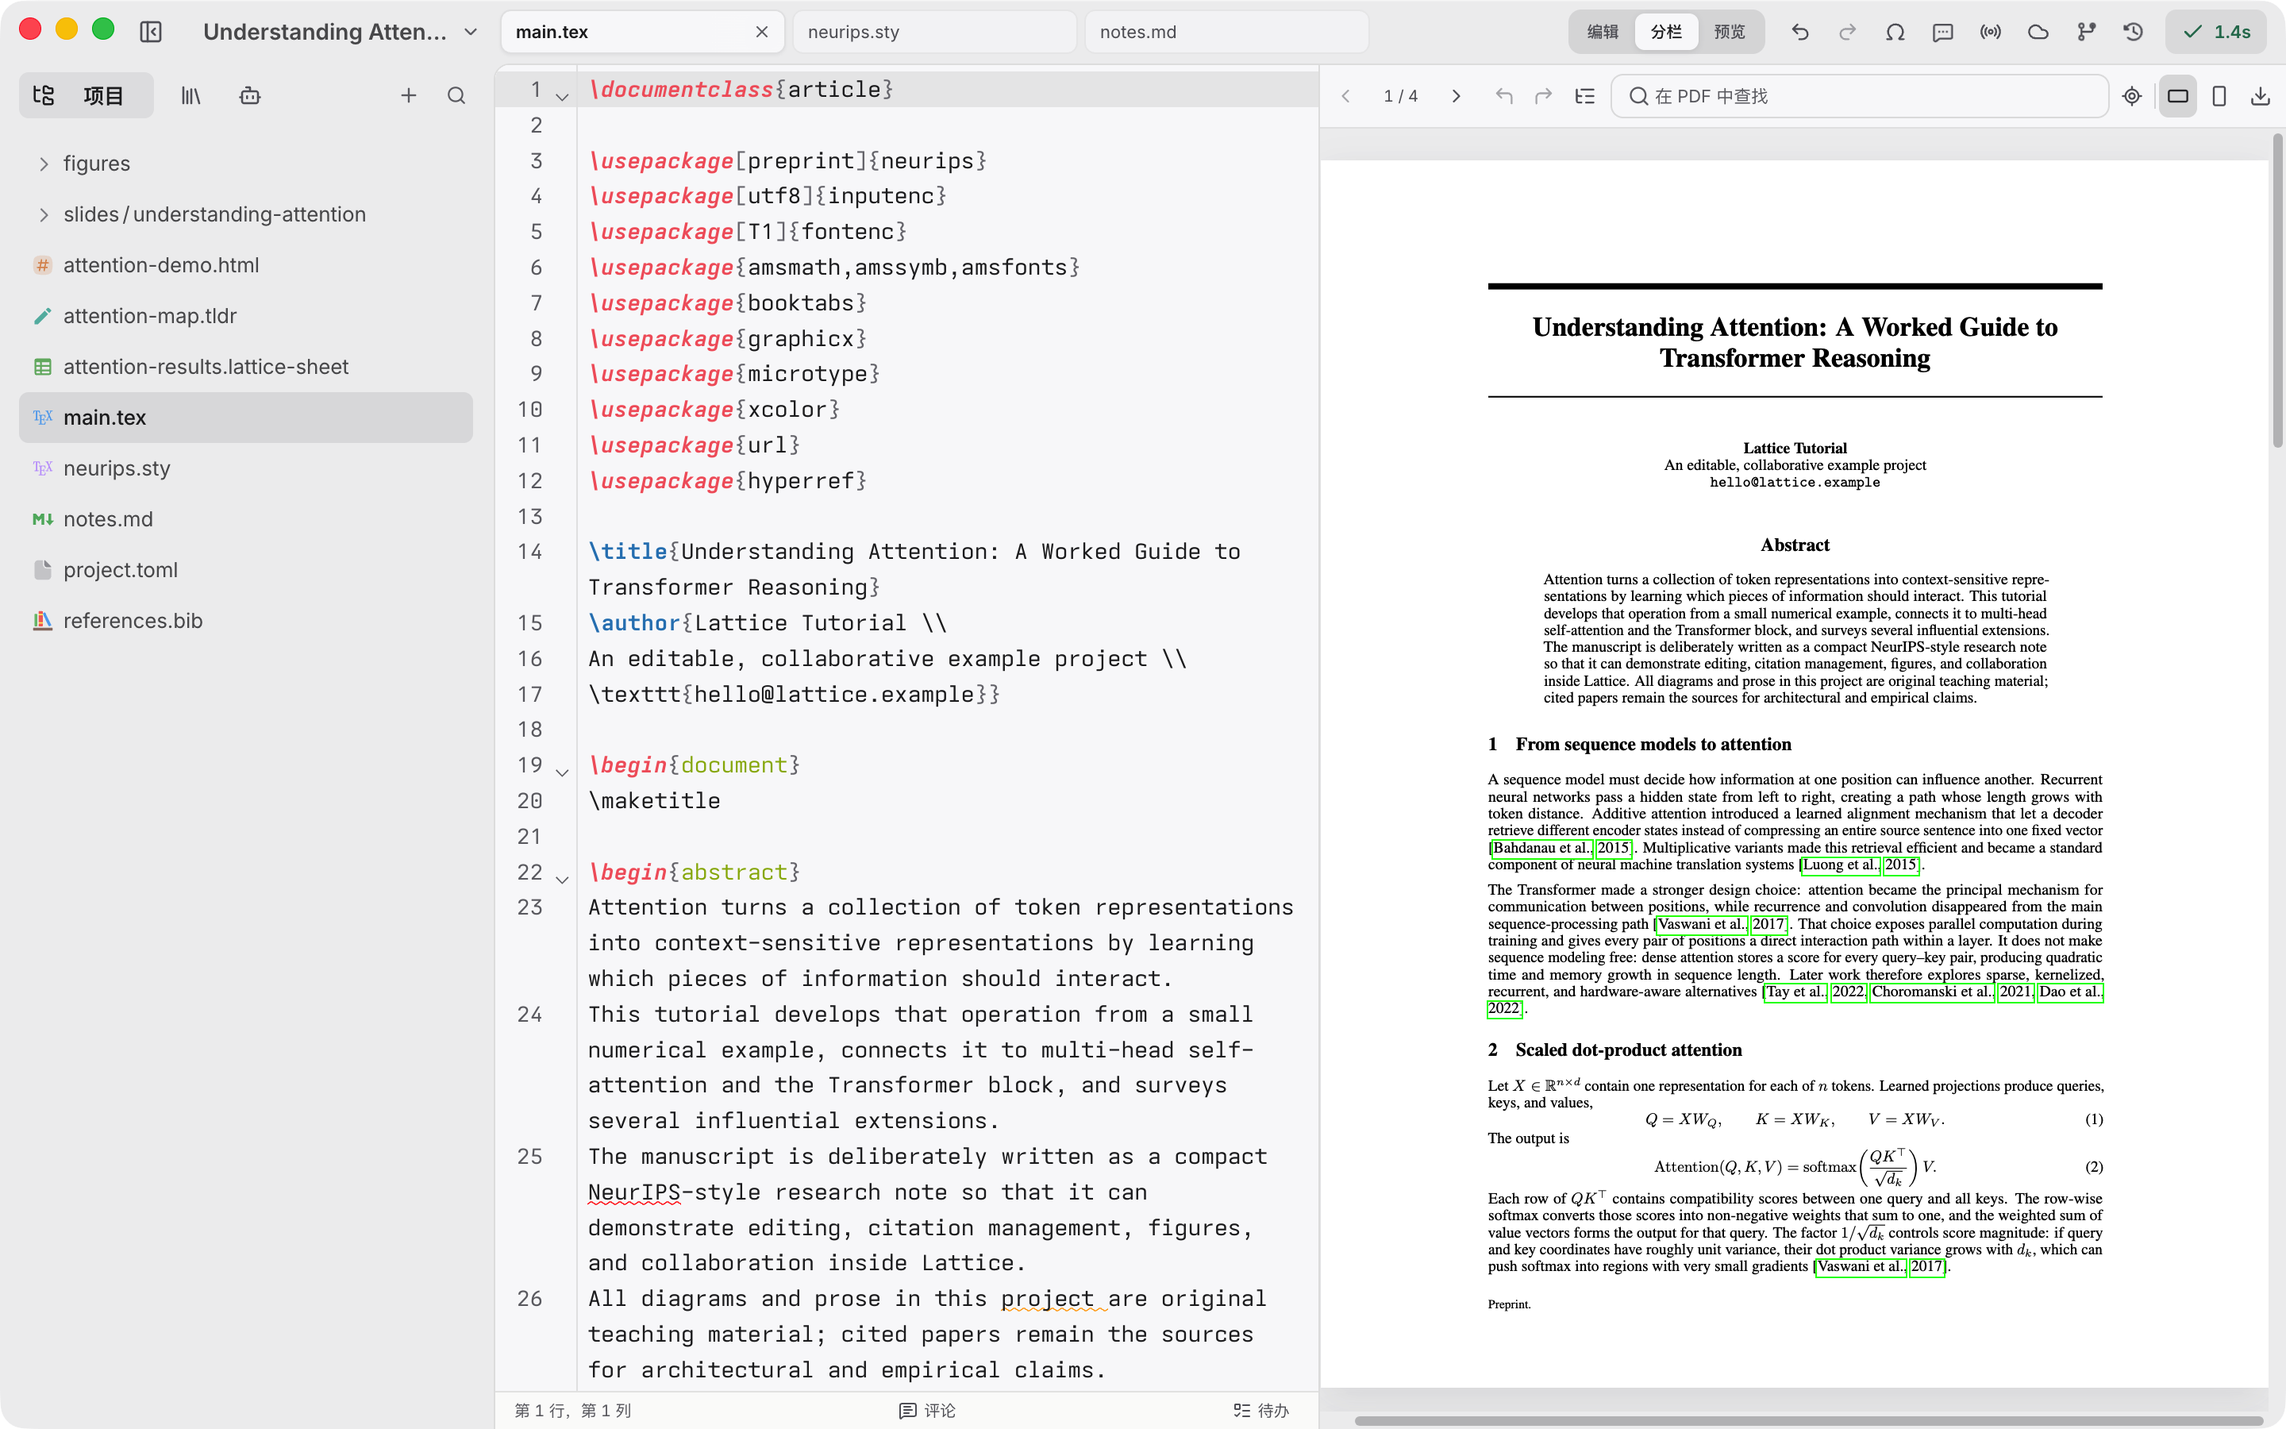
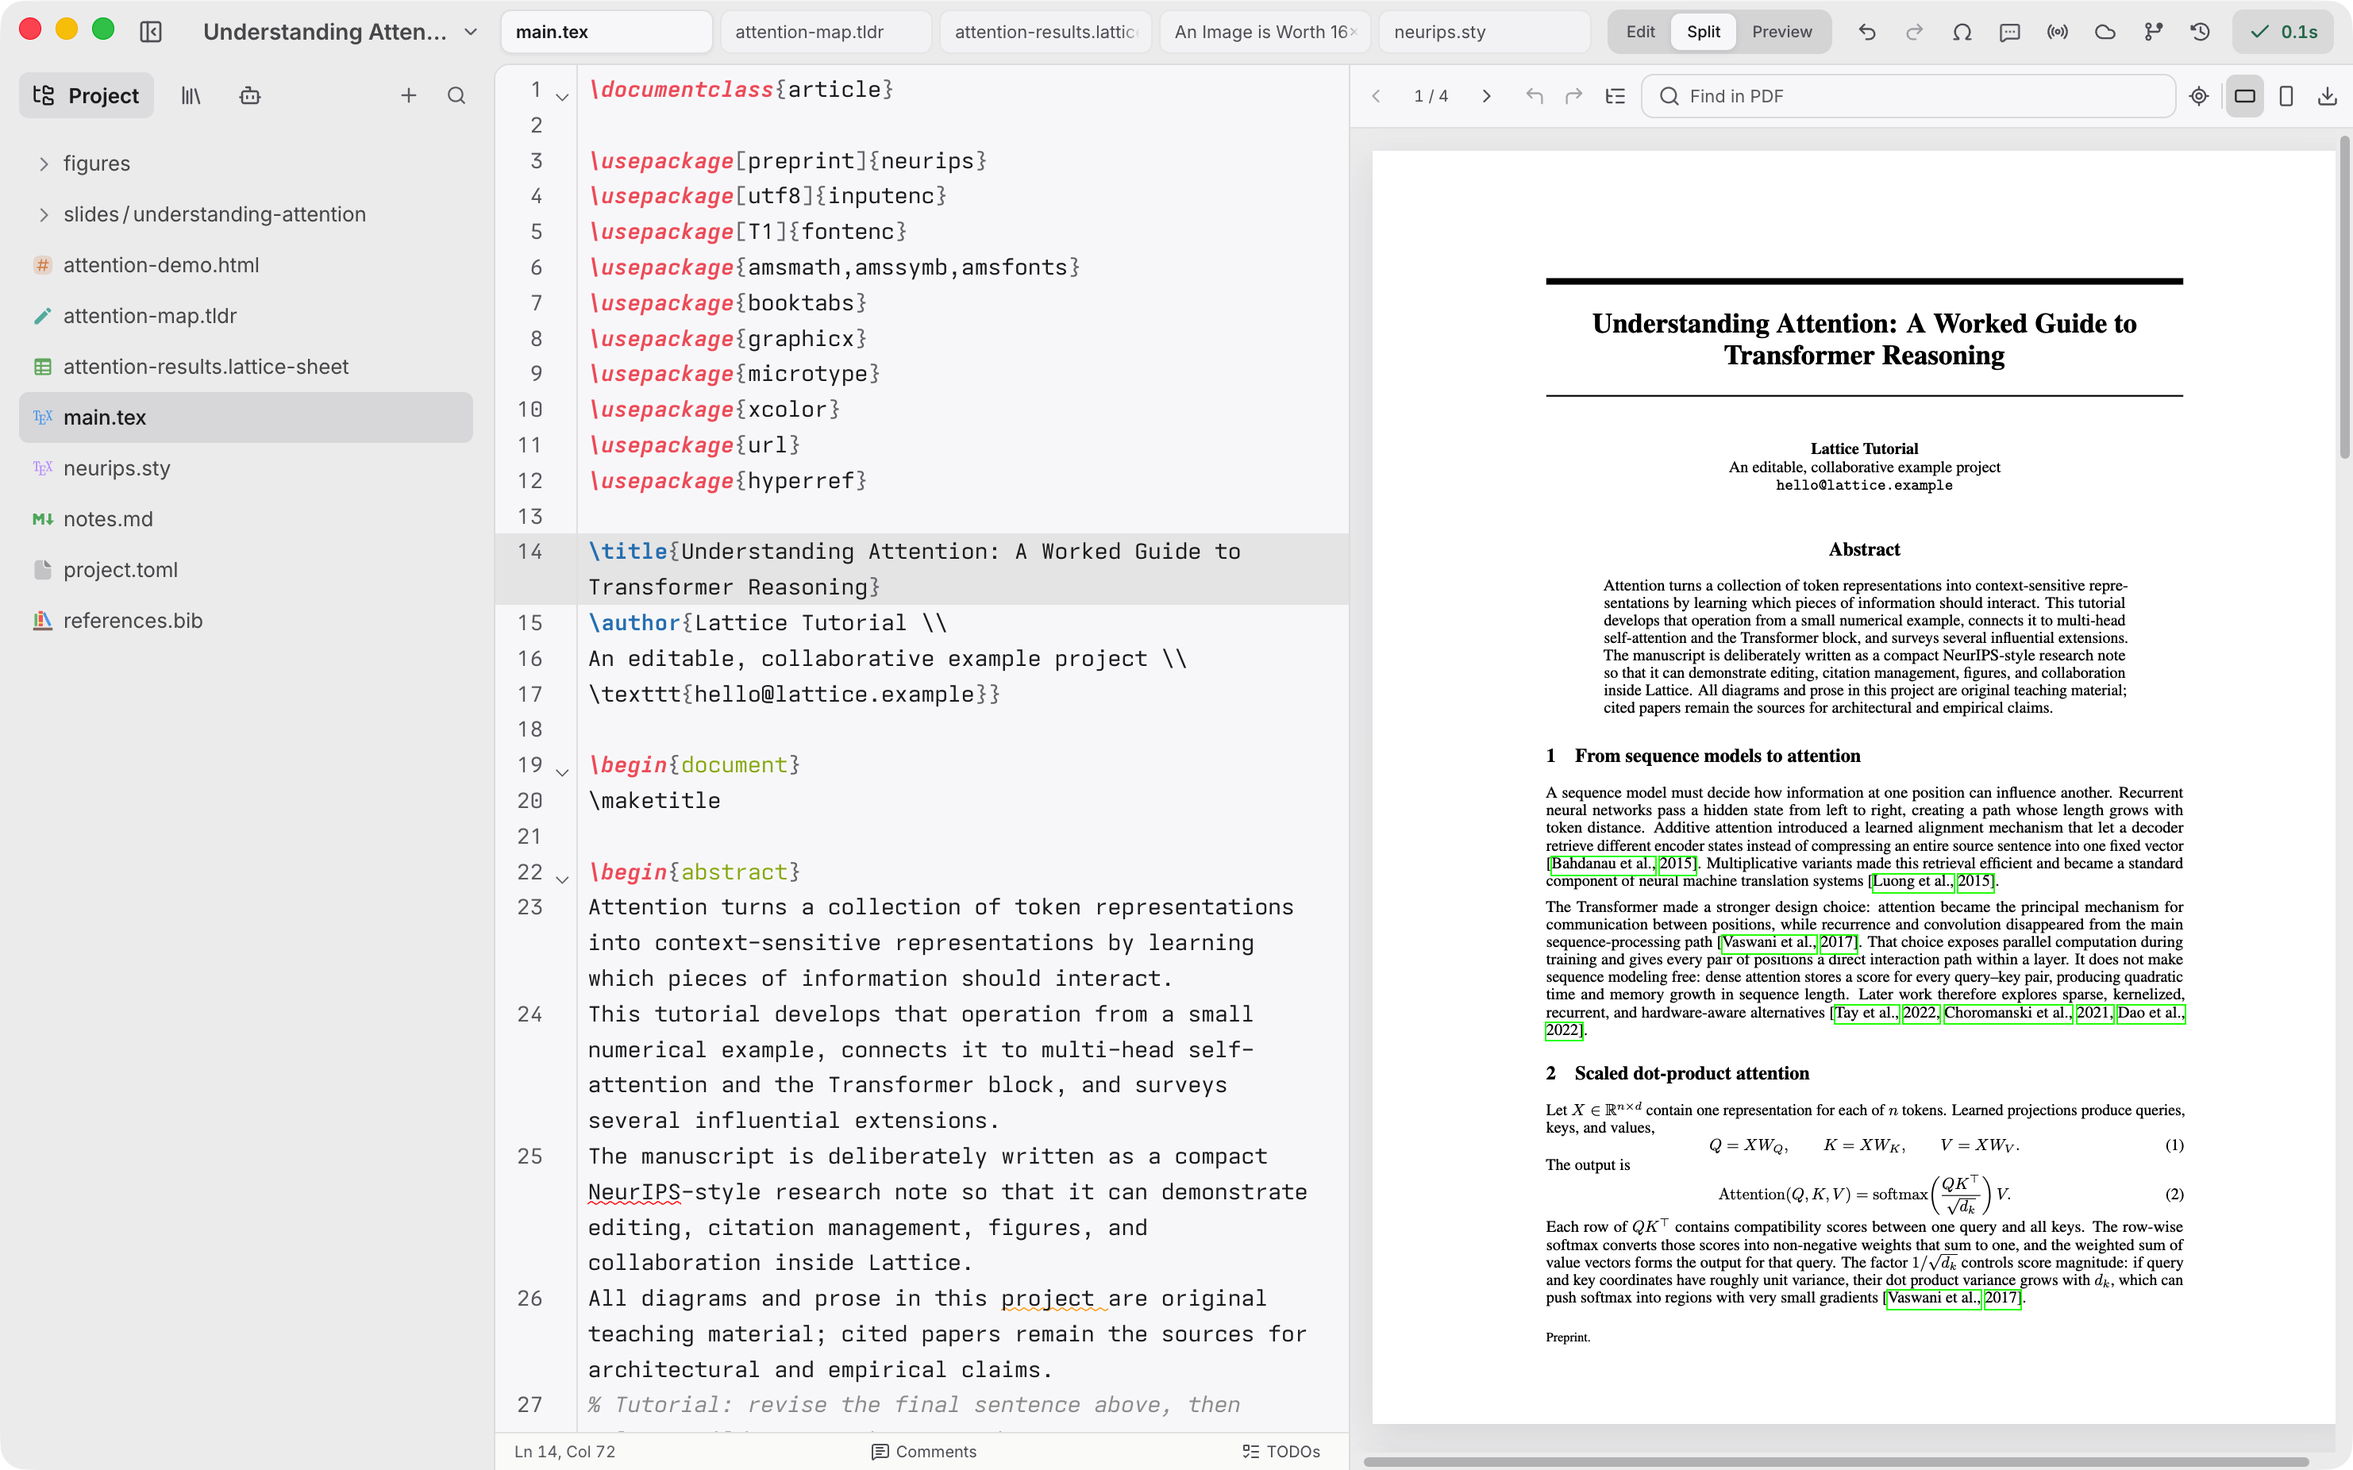
Fix LaTeX warning placement and paper download progress, hide temporary build files, and refresh the app screenshot
Amp-Thread-ID: https://ampcode.com/threads/T-01a08bd8-f658-71d6-b086-ce6fdf6771fc

diff --git a/src/project/navigator.tsx b/src/project/navigator.tsx
@@ -1466,7 +1466,8 @@ export function Navigator(props: {
   recentImport?: { query: string; citationKey?: string; arxivId: string } | null;
 }) {
   const { t } = useLingui();
-  const importFillRef = usePaperImportProgressFill(props.mode === "papers" && props.importing, props.importStageId);
+  const paperProgressActive = props.importing || Object.values(props.paperFetchStates).some((state) => state === "loading");
+  const importFillRef = usePaperImportProgressFill(props.mode === "papers" && paperProgressActive, props.importStageId);
   const paperImportRef = useRef<HTMLInputElement | null>(null);
   const paperViewportRef = useRef<HTMLDivElement | null>(null);
   const trimmedPaperQuery = props.importInput.trim();
@@ -1595,22 +1596,22 @@ export function Navigator(props: {
         />
       </div>}
       {props.mode === "papers" && <div className="navigator-section papers-section">
-        <div className="paper-import-control" data-importing={props.importing || undefined}>
+        <div className="paper-import-control" data-importing={paperProgressActive || undefined}>
           <SearchField
             ref={paperImportRef}
             aria-label={t`Search or import papers`}
-            aria-busy={props.importing}
-            readOnly={props.importing}
-            title={props.importing ? props.importStage ?? t`Working…` : undefined}
-            aria-describedby={props.importing ? "paper-import-status" : undefined}
+            aria-busy={paperProgressActive}
+            readOnly={paperProgressActive}
+            title={paperProgressActive ? props.importStage ?? t`Working…` : undefined}
+            aria-describedby={paperProgressActive ? "paper-import-status" : undefined}
             containerClassName="import-box"
             controlSize="compact"
             placeholder={t`Search or add by title, arXiv ID, DOI, or URL`}
             value={props.importInput}
             onChange={(event) => props.setImportInput(event.target.value)}
-            onClear={props.importing ? undefined : () => props.setImportInput("")}
+            onClear={paperProgressActive ? undefined : () => props.setImportInput("")}
             onKeyDown={(event) => {
-              if (event.key !== "Enter" || props.importing) return;
+              if (event.key !== "Enter" || paperProgressActive) return;
               const localMatch = filteredPapers[0];
               if (localMatch) activatePaper(localMatch);
               else props.onImport();
@@ -1619,7 +1620,7 @@ export function Navigator(props: {
             trailing={(
               <button
                 onClick={props.importing ? props.onCancelImport : importOrOpenPaper}
-                disabled={!props.importing && !props.importInput.trim()}
+                disabled={!props.importing && (paperProgressActive || !props.importInput.trim())}
                 title={props.importing ? t`Cancel` : t`Import paper`}
                 aria-label={props.importing ? t`Cancel` : undefined}
               >
@@ -1627,7 +1628,7 @@ export function Navigator(props: {
               </button>
             )}
           />
-          {props.importing && (
+          {paperProgressActive && (
             <>
               <div className="paper-import-track" aria-hidden="true">
                 <span ref={importFillRef} style={{ width: "0%" }} />

diff --git a/src/build/texlab-diagnostics.test.ts b/src/build/texlab-diagnostics.test.ts
@@ -1,8 +1,55 @@
 import { EditorState } from "@codemirror/state";
+import { EditorView } from "@codemirror/view";
+import { setDiagnostics } from "@codemirror/lint";
 import { describe, expect, it } from "vitest";
 import { editorTexlabDiagnosticsForFile } from "./texlab-diagnostics";
 
 describe("editorTexlabDiagnosticsForFile", () => {
+  const boxWarning = {
+    file: "main.tex", line: 1, column: 1, endLine: 1, endColumn: 1,
+    level: "warning",
+    message: "Underfull \\hbox (badness 1953) in paragraph at lines 157--160",
+  };
+
+  it.each([
+    boxWarning.message,
+    "Overfull \\hbox (1.5pt too wide) in paragraph at lines 157--160",
+    "Underfull \\vbox (badness 10000) has occurred while \\output is active",
+    "Overfull \\vbox (2.0pt too high) has occurred while \\output is active",
+  ])("does not underline documentclass for an unlocated box warning: %s", (message) => {
+    const input = Object.freeze([Object.freeze({ ...boxWarning, message })]);
+    const view = new EditorView({ doc: "\\documentclass{article}\nBody text" });
+    try {
+      // Start with the old, misleading mark so this also checks its removal
+      // from an already mounted editor when fresh diagnostics arrive.
+      view.dispatch(setDiagnostics(view.state, [{
+        from: 0, to: 12, severity: "warning", message,
+      }]));
+      expect(view.dom.querySelector(".cm-lintRange-warning")?.textContent).toBe("\\documentcla");
+      view.dispatch(setDiagnostics(view.state, editorTexlabDiagnosticsForFile(
+        [...input], "main.tex", view.state.doc,
+      )));
+      expect(view.dom.querySelector(".cm-lintRange")).toBeNull();
+      expect(input[0].message).toBe(message);
+    } finally {
+      view.destroy();
+    }
+  });
+
+  it("preserves real errors at the origin and box warnings with source ranges", () => {
+    const doc = EditorState.create({ doc: "\\documentclass{article}\nBody text" }).doc;
+    const diagnostics = editorTexlabDiagnosticsForFile([
+      { ...boxWarning, level: "error", message: "Undefined control sequence." },
+      { ...boxWarning, endColumn: 5 },
+      { ...boxWarning, line: 2, endLine: 2 },
+    ], "main.tex", doc);
+    expect(diagnostics.map(({ from, to, severity }) => ({ from, to, severity }))).toEqual([
+      { from: 0, to: 12, severity: "error" },
+      { from: 0, to: 4, severity: "warning" },
+      { from: 24, to: 33, severity: "warning" },
+    ]);
+  });
+
   it("maps TexLab diagnostics onto the active file with texlab source", () => {
     const doc = EditorState.create({ doc: "one\ntwo\nthree\nfour\n" }).doc;
     const diagnostics = editorTexlabDiagnosticsForFile(

diff --git a/src/App.test.tsx b/src/App.test.tsx
@@ -4392,6 +4392,8 @@ describe("project workspace", () => {
   }, 60_000);
 
   it("lists a work that is only cited but does not offer to open it", async () => {
+    let finishFetch!: (value: unknown) => void;
+    const pendingFetch = new Promise((resolve) => { finishFetch = resolve; });
     const snapshot = {
       root: "/tmp/lattice-paper",
       manifest: {
@@ -4418,7 +4420,7 @@ describe("project workspace", () => {
       }
       if (command === "list_history") return [];
       if (command === "fetch_paper") {
-        return { paperPath: ".research/papers/1412.6980/paper.md", arxivId: "1412.6980", reused: false };
+        return pendingFetch;
       }
       // Importing refreshes the project afterwards.
       if (command === "refresh_project") return snapshot;
@@ -4426,6 +4428,8 @@ describe("project workspace", () => {
     });
 
     renderApp();
+    // Let the lazy workspace finish mounting before switching its sidebar.
+    await waitFor(() => expect(document.querySelector(".cm-editor")).not.toBeNull(), { timeout: 30_000 });
     await switchSidebarMode("Papers");
     const papers = within(await screen.findByRole("list", { name: "Papers" }));
     // Its preprint is known, so the row offers to fetch rather than going dead.
@@ -4443,7 +4447,16 @@ describe("project workspace", () => {
 
     fireEvent.click(citedOnly);
     await waitFor(() => expect(invoke).toHaveBeenCalledWith("fetch_paper", { arxivId: "1412.6980" }));
-  });
+    const input = screen.getByRole("searchbox", { name: "Search or import papers" });
+    expect(input).toHaveAttribute("aria-busy", "true");
+    expect(document.querySelector(".paper-import-track")).toBeInTheDocument();
+    expect(screen.queryByRole("button", { name: "Cancel" })).toBeNull();
+    await act(async () => {
+      finishFetch({ paperPath: ".research/papers/1412.6980/paper.md", arxivId: "1412.6980", reused: false });
+    });
+    await waitFor(() => expect(input).toHaveAttribute("aria-busy", "false"));
+    expect(document.querySelector(".paper-import-track")).toBeNull();
+  }, 60_000);
 
   it("warns about DOI-exact citation updates and opens the Crossref notice", async () => {
     const snapshot = {

diff --git a/src/project/navigator.test.tsx b/src/project/navigator.test.tsx
@@ -221,6 +221,36 @@ describe("Navigator / papers", () => {
     expect(input).toHaveValue("graph transformers");
   });
 
+  it("shows download progress until the last loading paper finishes without enabling import cancellation", () => {
+    const { props, rerenderWith } = renderNavigator({
+      importInput: "Adam",
+      paperFetchStates: { first: "loading", second: "loading" },
+      importStageId: "fulltext",
+      importStage: "Downloading full text and figures…",
+    });
+    const input = screen.getByRole("searchbox", { name: "Search or import papers" });
+    expect(input).toHaveAttribute("aria-busy", "true");
+    expect(input).toHaveAttribute("aria-describedby", "paper-import-status");
+    expect(input).toHaveAttribute("readonly");
+    expect(screen.getByTitle("Import paper")).toBeDisabled();
+    fireEvent.keyDown(input, { key: "Enter" });
+    expect(props.onImport).not.toHaveBeenCalled();
+    expect(screen.queryByRole("button", { name: "Cancel" })).toBeNull();
+    expect(screen.getByRole("status")).toHaveTextContent("Downloading full text and figures…");
+    expect(document.querySelector(".paper-import-track > span")).toBeInTheDocument();
+    rerenderWith({ paperFetchStates: { first: "success", second: "loading" }, importStageId: "overview", importStage: "Fetching the paper overview…" });
+    expect(screen.getByRole("status")).toHaveTextContent("Fetching the paper overview…");
+    // Failed fetches are removed; successful ones linger briefly for the row checkmark.
+    rerenderWith({ paperFetchStates: { first: "success" } });
+    expect(screen.queryByRole("status")).toBeNull();
+    expect(document.querySelector(".paper-import-track")).toBeNull();
+    expect(input).toHaveAttribute("aria-busy", "false");
+    expect(input).not.toHaveAttribute("aria-describedby");
+    expect(input).not.toHaveAttribute("readonly");
+    expect(input).toHaveValue("Adam");
+    expect(screen.getByTitle("Import paper")).toBeEnabled();
+  });
+
   it("ranks a title prefix ahead of metadata and full-text matches", async () => {
     vi.useFakeTimers();
     try {

diff --git a/src/build/texlab-diagnostics.ts b/src/build/texlab-diagnostics.ts
@@ -22,6 +22,15 @@ export function editorTexlabDiagnosticsForFile(
   if (!doc.lines) return [];
   return diagnostics.flatMap((diagnostic) => {
     if (!diagnosticMatchesFile(diagnostic.file, activeFile)) return [];
+    // TexLab can attach box warnings from generated files (e.g. main.bbl)
+    // to the root document with an empty range at its origin. That is not a
+    // source location: keep the diagnostic data, but don't underline the
+    // documentclass command. Other diagnostics at the origin can be real errors.
+    if (
+      diagnostic.line === 1 && diagnostic.column === 1 &&
+      diagnostic.endLine === 1 && diagnostic.endColumn === 1 &&
+      /^(?:Under|Over)full \\[hv]box\b/.test(diagnostic.message)
+    ) return [];
     const startLineNumber = Math.min(Math.max(diagnostic.line ?? 1, 1), doc.lines);
     const endLineNumber = Math.min(Math.max(diagnostic.endLine ?? startLineNumber, 1), doc.lines);
     const startLine = doc.line(startLineNumber);

diff --git a/src/styles/app-shell.css b/src/styles/app-shell.css
@@ -551,6 +551,9 @@ body.resizing-panels { cursor: col-resize; user-select: none; }
   color: transparent;
   caret-color: transparent;
 }
+.papers-section .import-box .ui-search-field-input[aria-busy="true"]::placeholder {
+  color: transparent;
+}
 .papers-section .paper-import-control[data-importing] .ui-search-field-trailing {
   position: relative;
   z-index: 1;

diff --git a/src-tauri/src/project.rs b/src-tauri/src/project.rs
@@ -6142,6 +6142,9 @@ const BUILD_ARTIFACT_SUFFIXES: &[&str] = &[
     ".run.xml",
     ".snm",
     ".synctex",
+    // SyncTeX appends `(busy)` while writing, then renames the completed file.
+    ".synctex(busy)",
+    ".synctex.gz(busy)",
     ".toc",
     ".vrb",
     ".xdv",
@@ -7287,6 +7290,38 @@ mod tests {
             .collect::<Vec<_>>();
 
         assert_eq!(visible, vec!["data.xml", "main.tex", "references.bib"]);
+        fs::remove_dir_all(root).unwrap();
+    }
+
+    #[test]
+    fn project_refresh_hides_synctex_files_during_compilation() {
+        let root = temp_root("synctex-busy");
+        fs::write(root.join("main.tex"), "\\documentclass{article}\n").unwrap();
+        // A user-owned file containing `(busy)` must remain visible.
+        fs::write(root.join("notes(busy)"), "notes").unwrap();
+        let expected = vec!["main.tex", "notes(busy)"];
+        for suffix in [".synctex", ".synctex.gz"] {
+            let busy = root.join(format!("main{suffix}(busy)"));
+            let finished = root.join(format!("main{suffix}"));
+            fs::write(&busy, "SyncTeX data").unwrap();
+            // Use the same entry point as the desktop's refresh_project command.
+            let snapshot = open(&root).unwrap();
+            let visible: Vec<_> = snapshot
+                .files
+                .iter()
+                .map(|file| file.path.as_str())
+                .collect();
+            assert_eq!(visible, expected, "while writing {suffix}");
+            assert!(busy.exists(), "hiding must not delete the compiler's file");
+            fs::rename(&busy, &finished).unwrap();
+            let snapshot = open(&root).unwrap();
+            let visible: Vec<_> = snapshot
+                .files
+                .iter()
+                .map(|file| file.path.as_str())
+                .collect();
+            assert_eq!(visible, expected, "after finishing {suffix}");
+        }
         fs::remove_dir_all(root).unwrap();
     }
 
